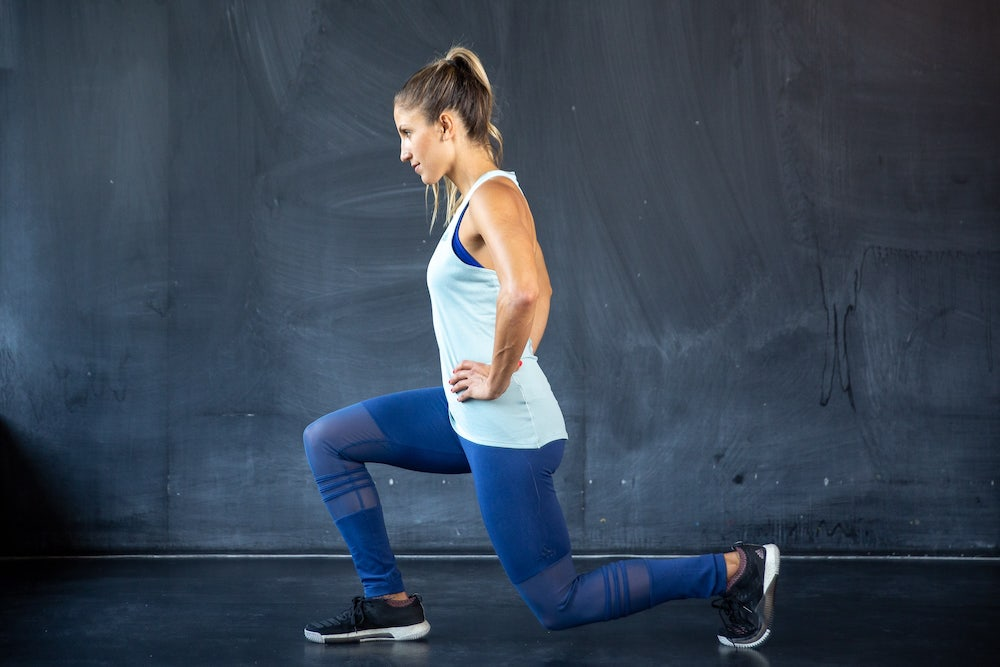
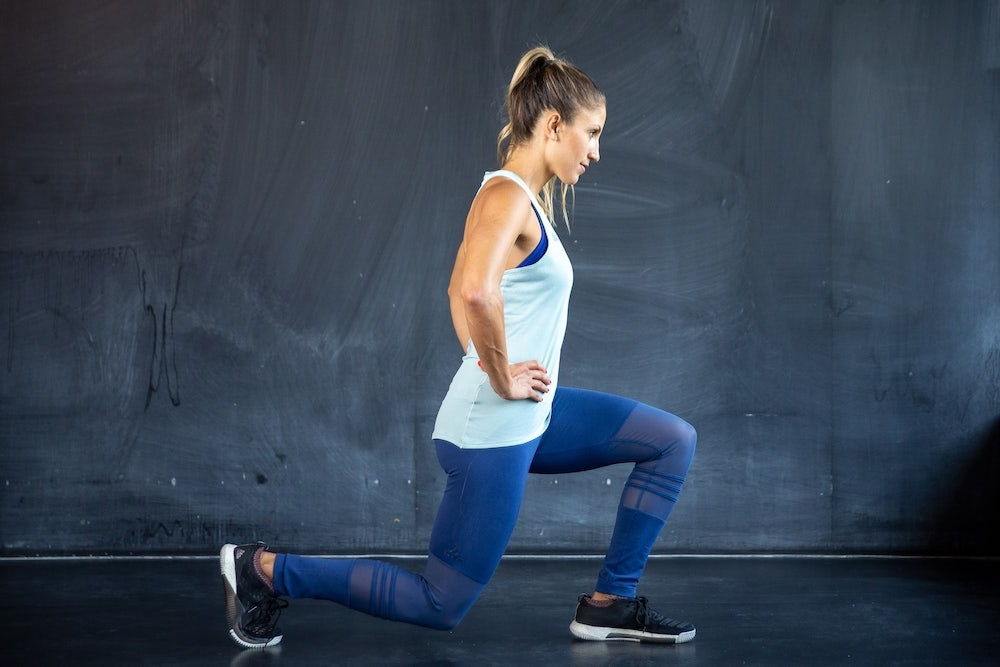
Update home page

diff --git a/app/src/components/screens/Home.js b/app/src/components/screens/Home.js
@@ -1,5 +1,5 @@
 import "../../styles/Home.css";
-import React, { Component } from 'react';
+import React, { Component } from "react";
 import { Card, CardDeck, Col } from "react-bootstrap";
 import pushupThumbnail from "../../assets/pushup_thumbnail.jpg";
 import lungesThumbnail from "../../assets/lunges_thumbnail.jpg";
@@ -9,12 +9,12 @@ import Header from "../ui/Header";
 
 class Home extends Component {
   constructor(props) {
-    super(props)
+    super(props);
     this.state = {
       exercise: true,
       history: false,
-      leaderBoard: false
-    }
+      leaderBoard: false,
+    };
   }
 
   render() {
@@ -34,12 +34,8 @@ class Home extends Component {
                 />
                 <Card.ImgOverlay>
                   <Card.Title className="cardTxt">PUSH UPS</Card.Title>
-                  {/* <Card.Text>
-                    This is a wider card with supporting text below as a natural
-                    lead-in to additional content. This content is a little bit
-                    longer.
-                  </Card.Text>
-                  <Card.Text>Last updated 3 mins ago</Card.Text> */}
+                  {/* <Card.Text>A classic upper body exercise. Avoid letting your elbows flare out to the side and keep your body in a straight line.</Card.Text> */}
+                  {/* <Card.Text>Last updated 10 mins ago</Card.Text> */}
                 </Card.ImgOverlay>
               </Card>
               <Card className="bg-dark text-white card">
@@ -51,11 +47,9 @@ class Home extends Component {
                 <Card.ImgOverlay>
                   <Card.Title className="cardTxt">SQUATS</Card.Title>
                   {/* <Card.Text>
-                    This is a wider card with supporting text below as a natural
-                    lead-in to additional content. This content is a little bit
-                    longer.
-                  </Card.Text>
-                  <Card.Text>Last updated 3 mins ago</Card.Text> */}
+                    Mastering the bodyweight squat is essential for good results in almost any workout program. If it’s challenging, practice with a chair first.
+                  </Card.Text> */}
+                  {/* <Card.Text>Last updated 3 mins ago</Card.Text> */}
                 </Card.ImgOverlay>
               </Card>
             </CardDeck>
@@ -69,11 +63,9 @@ class Home extends Component {
                 <Card.ImgOverlay>
                   <Card.Title className="cardTxt">SIT UPS</Card.Title>
                   {/* <Card.Text>
-                    This is a wider card with supporting text below as a natural
-                    lead-in to additional content. This content is a little bit
-                    longer.
-                  </Card.Text>
-                  <Card.Text>Last updated 3 mins ago</Card.Text> */}
+                  Instead of pulling up on your neck, focus on squeezing your abs to flex your upper body.
+                  </Card.Text> */}
+                  {/* <Card.Text>Last updated 10 mins ago</Card.Text> */}
                 </Card.ImgOverlay>
               </Card>
               <Card className="bg-dark text-white card">
@@ -83,13 +75,12 @@ class Home extends Component {
                   className="cardImg"
                 />
                 <Card.ImgOverlay>
-                  <Card.Title className="cardTxt">PLANKS</Card.Title>
+                  <Card.Title className="cardTxt">LUNGES</Card.Title>
                   {/* <Card.Text>
-                    This is a wider card with supporting text below as a natural
-                    lead-in to additional content. This content is a little bit
-                    longer.
-                  </Card.Text>
-                  <Card.Text>Last updated 3 mins ago</Card.Text> */}
+                    Start slowly and find your balance. Remember that your goal
+                    is to use the front leg to push yourself back up!
+                  </Card.Text> */}
+                  {/* <Card.Text>Last updated 10 mins ago</Card.Text> */}
                 </Card.ImgOverlay>
               </Card>
             </CardDeck>
@@ -100,7 +91,7 @@ class Home extends Component {
             <p className="startBtnTxt">Start</p>
           </div>
         </div>
-      </div >
+      </div>
     );
   }
 }
